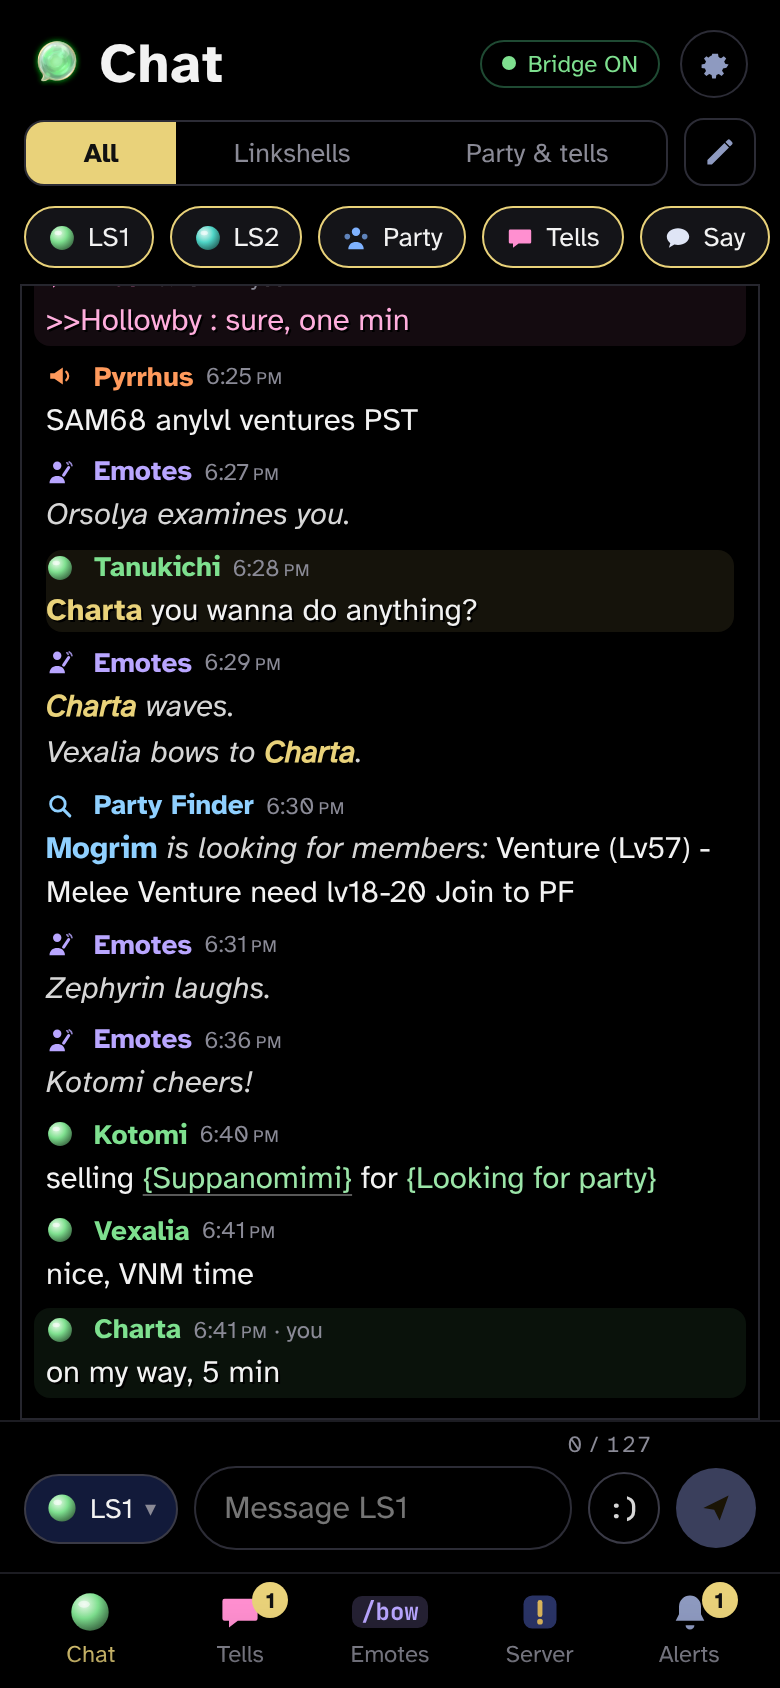
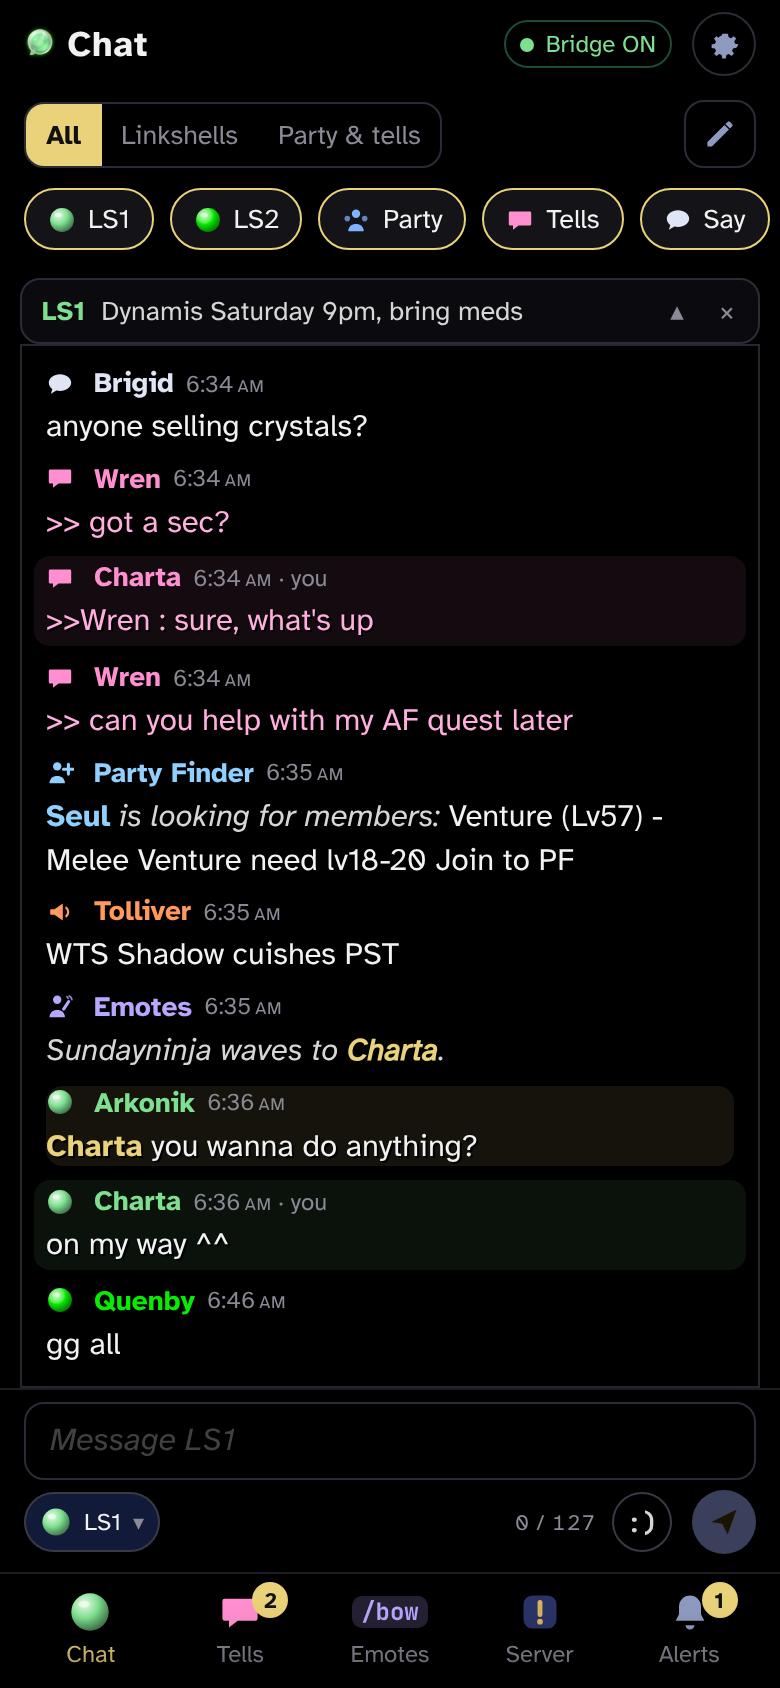
1.1.1: x to clear bazaar visits; screenshots retaken from made-up chat by tools/screenshots.py; README gallery trimmed
Claude-Session: https://claude.ai/code/session_01C54PoDV97t3aX5JPZhdwcf

diff --git a/tools/screenshots.js b/tools/screenshots.js
@@ -1,0 +1,41 @@
+// Takes the README and release screenshots from a running bridge fed with made-up chat.
+// Run tools/screenshots.py, not this file: it starts the bridge and writes the fake lines first.
+// Needs Node and Playwright (npm i playwright, then npx playwright install chromium).
+const { chromium } = require("playwright");
+
+const [url, out] = process.argv.slice(2);
+const W = 390, H = 844;   // an iPhone 13/14 screen in CSS pixels
+
+async function page(browser, prefs) {
+  const ctx = await browser.newContext({ viewport: { width: W, height: H }, deviceScaleFactor: 2 });
+  const p = await ctx.newPage();
+  await p.addInitScript(pr => {
+    try { localStorage.setItem("pcxi", JSON.stringify(Object.assign({ savedAt: Date.now() + 1e9, tipSeen: true }, pr))); } catch (e) {}
+  }, prefs);
+  await p.goto(url);
+  await p.waitForSelector("#tab-chat .top");
+  await p.evaluate(() => document.fonts.ready);
+  await p.waitForTimeout(800);
+  return p;
+}
+async function shot(p, name) { await p.waitForTimeout(400); await p.screenshot({ path: out + "/" + name + ".png" }); console.log("  " + name + ".png"); }
+async function tab(p, t, cs) { await p.click('#tabbar [data-tab="' + t + '"]' + (cs ? '[data-cs="' + cs + '"]' : "")); }
+
+(async () => {
+  const b = await chromium.launch();
+  const base = { watch: "Charta", quickFilters: true, bazaar: true };
+  for (const skin of ["midnight", "classic", "onyx", "yuna"]) {
+    const p = await page(b, Object.assign({}, base, { skin }));
+    await shot(p, "skin-" + skin);
+    if (skin === "midnight") {
+      await shot(p, "chat");
+      await tab(p, "tells"); await p.click('[data-thread="Wren"]'); await shot(p, "tell-thread");
+      await p.click("#scr-thread [data-back]"); await tab(p, "cmds", "emote"); await shot(p, "emotes");
+      await tab(p, "cmds", "server"); await shot(p, "server");
+      await tab(p, "alerts"); await shot(p, "ventures");
+      await p.locator('[data-go="settings"]:visible').first().click(); await shot(p, "settings");
+    }
+    await p.context().close();
+  }
+  await b.close();
+})().catch(e => { console.error("ERR", e.message); process.exit(1); });

diff --git a/bridge/index.html b/bridge/index.html
@@ -1923,9 +1923,10 @@ function renderAlerts() {
       return card(CH[m.ch].icon, "var(--" + m.ch + ", var(--soft))", esc(m.name || CH[m.ch].full), m.ts, '<div class="abody">' + bodyHtml(m) + "</div>");
     }).join("") : '<div class="empty sm">Nothing yet.</div>'));
 
-  var baz = S.bazaar ? msgs.filter(function (m) { return m.ch === "bazaar"; }).slice(-20).reverse() : [];
+  // The x hides the visits shown (remembered on the phone); a new visit shows again.
+  var baz = S.bazaar ? msgs.filter(function (m) { return m.ch === "bazaar" && !hid[noticeKey(m)]; }).slice(-20).reverse() : [];
   $("bazaar").innerHTML = S.bazaar ? '<div class="sect">BAZAAR</div>' + (baz.length ?
-    card("bazaar", "var(--gold)", "Bazaar", baz[0].ts, baz.map(function (m) { return row(esc(m.body), m.ts); }).join("")) :
+    card("bazaar", "var(--gold)", "Bazaar", baz[0].ts, baz.map(function (m) { return row(esc(m.body), m.ts); }).join(""), baz.map(noticeKey).join(";;")) :
     '<div class="empty sm">No visitors yet.</div>') : "";
 
   var n = msgs.filter(function (m) { return (m.ch === "server" || m.ch === "system") && !hid[noticeKey(m)]; }).reverse().slice(0, 60);

diff --git a/tools/screenshots.py b/tools/screenshots.py
@@ -1,0 +1,89 @@
+"""Retake the README screenshots from made-up chat, so no real player's words end up in an image.
+
+    python3 tools/screenshots.py            writes docs/screenshots/*.png
+
+Starts the bridge on 127.0.0.1 with a throwaway folder, writes fake lines into its feed,
+then runs tools/screenshots.js (Node + Playwright) to capture each page at iPhone size.
+Nothing touches your real phonechat folder, link or settings.
+"""
+import json, os, shutil, subprocess, sys, tempfile, threading, time
+
+ROOT = os.path.dirname(os.path.dirname(os.path.abspath(__file__)))
+OUT = os.path.join(ROOT, "docs", "screenshots")
+PORT = 8877
+CHAR = "Charta"
+
+FIRST = "Hmm... Something is interrupting ventures in these zones..."
+WARN = "Hmm... Whatever's stirring in these venture zones is about to reveal itself..."
+
+
+def feed_lines(now):
+    # (seconds ago, channel, direction, name, body)
+    return [
+        (900, "zone", "in", "", "Lower Jeuno"),
+        (890, "motd", "in", "ls1", "Dynamis Saturday 9pm, bring meds"),
+        (880, "ls1", "in", "Marlow", "anyone up for a Dynamis run tonight?"),
+        (860, "ls2", "in", "Quenby", "what lvl cap are we doing"),
+        (840, "party", "in", "Mara", "pulling in 10"),
+        (820, "say", "in", "Brigid", "anyone selling crystals?"),
+        (800, "tell", "in", "Wren", "got a sec?"),
+        (790, "tell", "out", "Wren", "sure, what's up"),
+        (780, "tell", "in", "Wren", "can you help with my AF quest later"),
+        (760, "finder", "in", "", "Seul is looking for members: Venture (Lv57) - Melee Venture need lv18-20 Join to PF"),
+        (740, "shout", "in", "Tolliver", "WTS Shadow cuishes PST"),
+        (720, "emote", "in", "", "Sundayninja waves to Charta."),
+        (700, "ls1", "in", "Arkonik", "Charta you wanna do anything?"),
+        (690, "ls1", "out", CHAR, "on my way ^^"),
+        (620, "venture", "in", "Populox", FIRST),
+        (620, "venture", "in", "Populox", "Meriphataud Mountains (H-11) / Valkurm Dunes (E-8)"),
+        (250, "venture", "in", "Populox", FIRST),
+        (250, "venture", "in", "Populox", "Yhoator Jungle (G-7) / Sea Serpent Grotto (K-7)"),
+        (120, "bazaar", "in", "", "Mara begins to browse the merchandise in your bazaar."),
+        (60, "ls2", "in", "Quenby", "gg all"),
+    ]
+
+
+def main():
+    if not shutil.which("node"):
+        sys.exit("Needs Node and Playwright (npm i playwright; npx playwright install chromium).")
+    work = tempfile.mkdtemp(prefix="pcxi-shots-")
+    hb = os.path.join(work, "game.heartbeat")
+    stop = threading.Event()
+
+    def beats():
+        while not stop.is_set():
+            with open(hb, "w") as f:
+                f.write("%d %s" % (int(time.time()), CHAR))
+            stop.wait(2)
+
+    threading.Thread(target=beats, daemon=True).start()
+    bridge = subprocess.Popen([sys.executable, os.path.join(ROOT, "bridge", "bridge.py"), "--dir", work,
+                               "--port", str(PORT), "--host", "127.0.0.1"],
+                              stdout=subprocess.DEVNULL, stderr=subprocess.DEVNULL)
+    try:
+        for _ in range(50):
+            if os.path.exists(os.path.join(work, "status.json")):
+                break
+            time.sleep(0.2)
+        now = int(time.time())
+        with open(os.path.join(work, "feed-%s.log" % CHAR), "ab") as f:
+            for ago, ch, d, name, body in feed_lines(now):
+                f.write(("%d\t%s\t%s\t%s\t%s\n" % (now - ago, ch, d, name, body)).encode("cp932"))
+        time.sleep(4)   # past the bridge's 3 s Populox hold
+        url = json.load(open(os.path.join(work, "status.json")))["url"]
+        host = url.split("://", 1)[1].split("/", 1)[0]
+        url = url.replace(host, "127.0.0.1:%d" % PORT, 1)
+        os.makedirs(OUT, exist_ok=True)
+        print("writing to", OUT)
+        r = subprocess.run(["node", os.path.join(ROOT, "tools", "screenshots.js"), url, OUT])
+        if r.returncode:
+            sys.exit(r.returncode)
+    finally:
+        stop.set()
+        bridge.terminate()
+        bridge.wait(5)
+        shutil.rmtree(work, ignore_errors=True)
+
+
+if __name__ == "__main__":
+    main()

diff --git a/CHANGELOG.md b/CHANGELOG.md
@@ -41,12 +41,13 @@ Fixes and looks only. It reads the same lines as 1.1.0, except one it now reads 
 
 ### Fixes
 - Game messages that aren't chat no longer show up as a line in your chat. The auction house's "You can only place a single item or a set of 12 such items on auction." was one. Only the two failure lines the phone uses (a tell that wasn't received, and "There are no party members.") come through now.
+- Bazaar visits in Alerts have an × to clear them. New visits still show.
 - A failed tell or party line no longer shows the game's error twice. It's on the failed line only.
 - The `/pchat debug` log keeps the previous 2 MB as `debug-<Name>.old.log` when it fills up, instead of starting over.
 - The bug report form asks for the Build ID, whether it's a fresh install or an upgrade, and the phone and browser details.
 
 ### For testers
-- Release checks run automatically on GitHub (`.github/workflows/qc.yml`), and `docs/RELEASE_CHECKLIST.md` lists what to check by hand on a phone before a release. The zip's build ID is a hash of its files.
+- Release checks run automatically on GitHub (`.github/workflows/qc.yml`), and `docs/RELEASE_CHECKLIST.md` lists what to check by hand on a phone before a release. The zip's build ID is a hash of its files. `tools/screenshots.py` retakes the README screenshots from made-up chat.
 
 ## 1.1.0 (November 2026)
 

diff --git a/README.md b/README.md
@@ -53,18 +53,12 @@ Tested on a Steam Deck and on Windows 11, with an iPhone.
 </p>
 
 <p>
-  <img src="docs/screenshots/chat-compact.png" width="180" alt="Compact layout">
-  <img src="docs/screenshots/send-to.png" width="180" alt="Choosing where to send">
-  <img src="docs/screenshots/emote-action.png" width="180" alt="Emotes view showing only emote lines">
-  <img src="docs/screenshots/ventures.png" width="180" alt="VNM alert with countdown">
+  <img src="docs/screenshots/ventures.png" width="180" alt="Alerts: VNM cards with POP! and a countdown">
+  <img src="docs/screenshots/server.png" width="180" alt="Server tab with the searchable ! command list">
+  <img src="docs/screenshots/settings.png" width="180" alt="Settings">
 </p>
 
-<p>
-  <img src="docs/screenshots/server.png" width="180" alt="Server tab with the searchable ! command list">
-  <img src="docs/screenshots/command-confirm.png" width="180" alt="Confirm step before a command is sent">
-  <img src="docs/screenshots/settings.png" width="180" alt="Settings">
-  <img src="docs/screenshots/debug-info.png" width="180" alt="Debug info for a bug report">
-</p>
+<sub>Screenshots are made with made-up chat by `tools/screenshots.py`.</sub>
 
 ## What it won't do
 

diff --git a/tools/README.md b/tools/README.md
@@ -36,3 +36,7 @@ Both tools need Python 3.7 or newer. Pass `--dir` if the bridge's folder isn't `
 ## Focused QC checks
 
 Run `node tools/test_qc.js` and `python3 tools/test_qc.py` (the latter needs `lupa`). These exercise page logic and addon parsing without connecting to the game. Native phone color pickers, keyboard layout, and Home Screen safe areas still need device checks.
+
+## Screenshots
+
+`python3 tools/screenshots.py` retakes `docs/screenshots/` from made-up chat, so no real player's words end up in an image. It starts the bridge on 127.0.0.1 with a throwaway folder (your real phonechat folder, link and settings aren't touched) and captures each page at iPhone size. Needs Node and Playwright (`npm i playwright`, then `npx playwright install chromium`).
